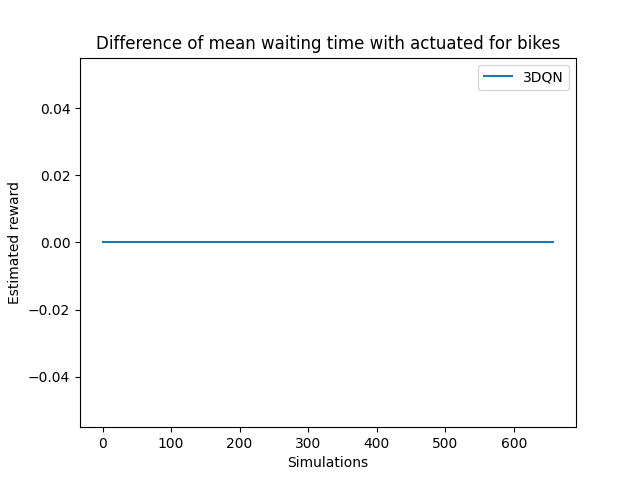
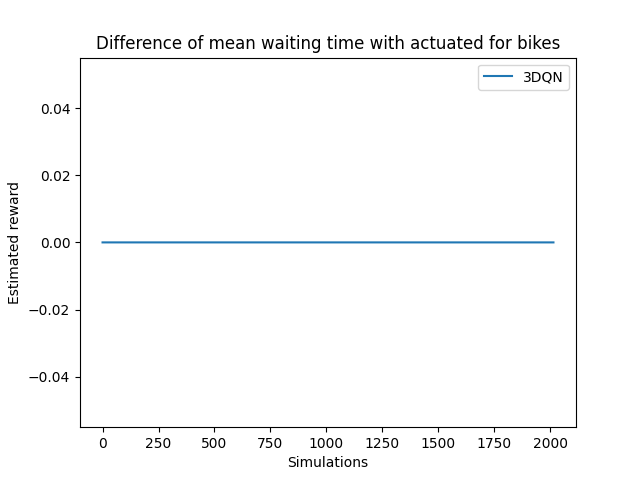
full car learning :D

diff --git a/main.py b/main.py
@@ -30,6 +30,29 @@ def spawn_car(id_car, step, path, net, dict_cars):
     dict_cars[str(id_car)]=[]
 
 
+def save(tab_dict_scenarios, args, structure, sub_folders, pre_file_name):
+    print("WARNING: Saving scenario...")
+    if(not os.path.exists("files/"+sub_folders)):
+        os.makedirs("files/"+sub_folders)
+
+    if(os.path.exists("files/"+sub_folders+pre_file_name+"scenarios.tab")):
+        with open("files/"+sub_folders+pre_file_name+"scenarios.tab", 'rb') as infile:
+            tab_saved_dict_scenarios = pickle.load(infile)
+    else:
+        tab_saved_dict_scenarios = []
+
+    tab_saved_dict_scenarios += tab_dict_scenarios
+    print(len(tab_saved_dict_scenarios))
+
+    with open("files/"+sub_folders+pre_file_name+"scenarios.tab", 'wb') as outfile:
+        pickle.dump(tab_saved_dict_scenarios, outfile)
+
+    if(not args.test and ("DQN" in args.method or "PPO" in args.method)):
+        torch.save(structure.drl_agent.model.state_dict(), "files/"+sub_folders+pre_file_name+"trained.n")
+        if("DQN" in args.method):
+            torch.save(structure.drl_agent.model_target.state_dict(), "files/"+sub_folders+pre_file_name+"trained_target.n")
+
+
 min_group_size = 5
 
 num_simu = 500
@@ -122,6 +145,7 @@ structure = Structure(edges, net, traci, simu_length, args.method, args.test, mi
 
 pre_file_name = args.method+"_"
 
+tab_dict_scenarios = []
 
 start_num_simu = 0
 
@@ -141,7 +165,11 @@ if(args.method != "actuated"):
 
 #for s in range(start_num_simu, num_simu):
 
+ep = 0
+
 while(structure.drl_agent.num_decisions_made < structure.drl_agent.hyperParams.DECISION_COUNT):
+
+    ep += 1
 
     if(not args.test and "DQN" in args.method and structure.drl_agent.num_decisions_made >= structure.drl_agent.hyperParams.DECISION_CT_LEARNING_START):
         structure.drl_agent.learn()
@@ -323,27 +351,18 @@ while(structure.drl_agent.num_decisions_made < structure.drl_agent.hyperParams.D
                 del dict_scenario[vehicle_type][i]'''
 
 
-    print("\ndata number:", num_cars_real+num_cyclists_real, ",", structure.num_cyclists_crossed, "cyclits used struct, last step:", step,\
+    print("\nep:", ep, "data number:", num_cars_real+num_cyclists_real, ",", structure.num_cyclists_crossed, "cyclits used struct, last step:", step,\
            "decisions:", structure.drl_agent.num_decisions_made)
 
 
 
     if(save_scenario):
-        print("WARNING: Saving scenario...")
-        if(not os.path.exists("files/"+sub_folders)):
-            os.makedirs("files/"+sub_folders)
-
-        if(os.path.exists("files/"+sub_folders+pre_file_name+"scenarios.tab")):
-            with open("files/"+sub_folders+pre_file_name+"scenarios.tab", 'rb') as infile:
-                tab_dict_scenarios = pickle.load(infile)
-        else:
-            tab_dict_scenarios = []
 
         tab_dict_scenarios.append(dict_scenario)
-        print(len(tab_dict_scenarios))
 
-        with open("files/"+sub_folders+pre_file_name+"scenarios.tab", 'wb') as outfile:
-            pickle.dump(tab_dict_scenarios, outfile)
+        if(ep%50 == 1):
+            save(tab_dict_scenarios, args, structure, sub_folders, pre_file_name)
+            tab_dict_scenarios = []
 
 
     bikes_data = compute_data(dict_scenario["bikes"])
@@ -356,12 +375,8 @@ while(structure.drl_agent.num_decisions_made < structure.drl_agent.hyperParams.D
     if("DQN" in args.method or "PPO" in args.method):
         print(f"cumulative reward:", structure.drl_cum_reward)
 
-    if(not args.test and structure.drl_agent.num_decisions_made%10000 == 0 and ("DQN" in args.method or "PPO" in args.method)):
-        torch.save(structure.drl_agent.model.state_dict(), "files/"+sub_folders+pre_file_name+"trained.n")
-        if("DQN" in args.method):
-            torch.save(structure.drl_agent.model_target.state_dict(), "files/"+sub_folders+pre_file_name+"trained_target.n")
 
-if(not args.test and ("DQN" in args.method or "PPO" in args.method)):
-    torch.save(structure.drl_agent.model.state_dict(), "files/"+sub_folders+pre_file_name+"trained.n")
-    if("DQN" in args.method):
-        torch.save(structure.drl_agent.model_target.state_dict(), "files/"+sub_folders+pre_file_name+"trained_target.n")
+
+
+if(save_scenario):
+    save(tab_dict_scenarios, args, structure, sub_folders, pre_file_name)

diff --git a/DQNAgent.py b/DQNAgent.py
@@ -18,13 +18,15 @@ class DQNHyperParams :
         self.BUFFER_SIZE = 25000 
         self.ALPHA = 0.05 #
         self.GAMMA = 0.99
-        self.LR = 0.001
-        self.BATCH_SIZE = 32
+        self.LR = 0.002
+        self.BATCH_SIZE = 128
 
         self.HIDDEN_SIZE = 16
         self.ACT_INTER = 16
 
-        self.DECISION_COUNT = 1.5e6
+        self.UPDATE_TARGET = 3750
+
+        self.DECISION_COUNT = 750000
         self.MAX_STEPS = 1000
         self.DECISION_CT_LEARNING_START = 10000
         self.LEARNING_EP = 1
@@ -91,10 +93,19 @@ class DQNAgent(object):
 
 
     def act(self, observation):
+        #actual noise decaying method, works well with the custom env
+        self.epsilon -= self.hyperParams.EPSILON_DECAY
+        if(self.epsilon<self.hyperParams.MIN_EPSILON):
+            self.epsilon=self.hyperParams.MIN_EPSILON
         self.num_decisions_made += 1
+
+        if(self.num_decisions_made%self.hyperParams.UPDATE_TARGET == 0):
+            self.model_target.load_state_dict(self.model.state_dict())
+        
         observation = torch.tensor(observation, device=self.device)
         tens_qvalue = self.model(observation) #compute the qvalues for the observation
         tens_qvalue = tens_qvalue.squeeze()
+        #print(tens_qvalue)
         rand = random()
         if(rand > self.epsilon): #noise management
             _, indices = tens_qvalue.max(0) #finds the index of the max qvalue
@@ -122,13 +133,6 @@ class DQNAgent(object):
             self.epsilon *= self.hyperParams.EPSILON_DECAY
         else:
             self.epsilon = 0'''
-
-
-        
-        #actual noise decaying method, works well with the custom env
-        self.epsilon -= self.hyperParams.EPSILON_DECAY
-        if(self.epsilon<self.hyperParams.MIN_EPSILON):
-            self.epsilon=self.hyperParams.MIN_EPSILON
 
         loss = MSELoss()
 
@@ -183,5 +187,5 @@ class DQNAgent(object):
         tens_loss.backward() #compute the gradient
         self.optimizer.step() #back-propagate the gradient
 
-        for target_param, param in zip(self.model_target.parameters(), self.model.parameters()): #updates the target network
-            target_param.data.copy_(self.alpha * param + (1-self.alpha)*target_param )
+        '''for target_param, param in zip(self.model_target.parameters(), self.model.parameters()): #updates the target network
+            target_param.data.copy_(self.alpha * param + (1-self.alpha)*target_param )'''

diff --git a/Structure.py b/Structure.py
@@ -38,6 +38,7 @@ class Structure:
         self.phases = None
 
         if(self.use_drl):
+            self.max_reward = None
             self.cnn = cnn
             self.drl_cum_reward = 0
             self.drl_decision_made = False
@@ -198,13 +199,19 @@ class Structure:
         if(len(self.ob_prec) == 0):
             self.calculate_sum_waiting_time()
         else:
-            if(not self.test and self.action != None):
+            if(self.action != None):
                 reward = self.calculate_reward()
-                self.drl_cum_reward += reward                   
-                if(self.method == "PPO"):                   
-                    self.drl_agent.memorize(self.ob_prec, self.val, self.action_probs, self.action, self.ob, reward, False)  
-                else:
-                    self.drl_agent.memorize(self.ob_prec, self.action, self.ob, reward, False)  
+                if(self.max_reward == None or reward < self.max_reward):
+                    if(reward != 0):
+                        self.max_reward = reward
+                reward /= self.max_reward
+                reward = -reward
+                self.drl_cum_reward += reward
+                if(not self.test):                   
+                    if(self.method == "PPO"):                   
+                        self.drl_agent.memorize(self.ob_prec, self.val, self.action_probs, self.action, self.ob, reward, False)  
+                    else:
+                        self.drl_agent.memorize(self.ob_prec, self.action, self.ob, reward, False)  
 
             if(self.method == "PPO"):  
                 self.action, self.val, self.action_probs = self.drl_agent.act(self.ob)
